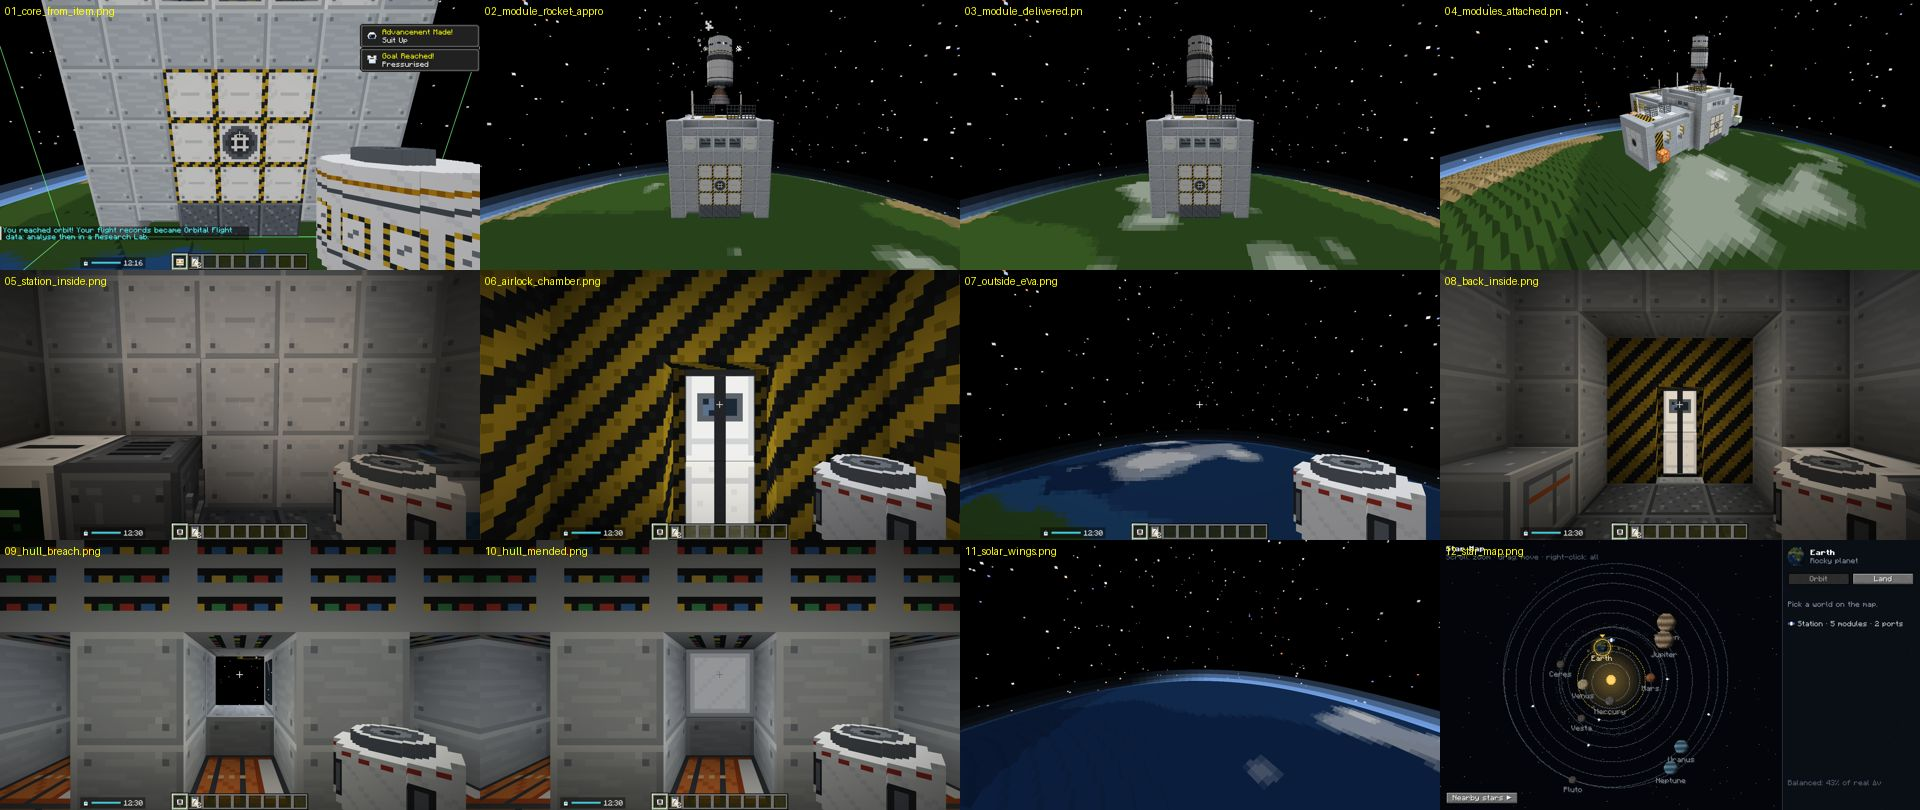
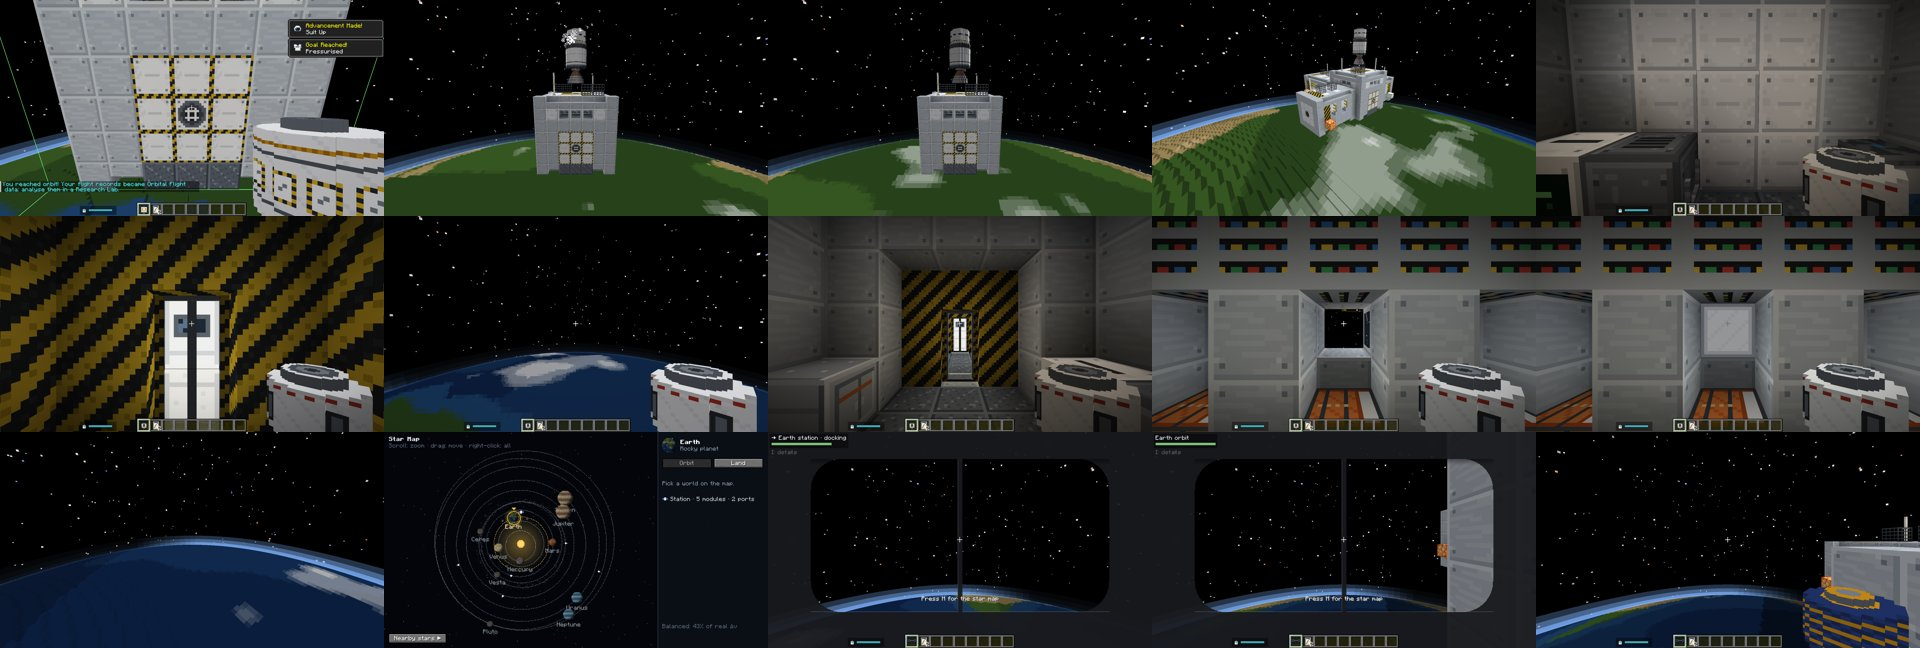
QA: showcase shots that keep the player in place; crewed docking and its HUD line filmed in qa_station_play
Shot.stay leaves the player where they are (no teleport, no camera hold), so the
crewed approach is filmed from the seat. The station airlock test finds its doors
by their open property, so the sliding doors pass too.

diff --git a/src/testmod/java/com/pizzaparker07/spacebreaker/testmod/showcase/QaStationPlayScenario.java b/src/testmod/java/com/pizzaparker07/spacebreaker/testmod/showcase/QaStationPlayScenario.java
@@ -12,7 +12,6 @@ import com.pizzaparker07.spacebreaker.content.rocketry.station.StationModule;
 import com.pizzaparker07.spacebreaker.content.suit.OxygenTankItem;
 import com.pizzaparker07.spacebreaker.content.suit.SuitModule;
 import com.pizzaparker07.spacebreaker.content.suit.SuitTanks;
-import com.pizzaparker07.spacebreaker.content.suit.block.AirlockDoorBlock;
 import com.pizzaparker07.spacebreaker.content.suit.block.OxygenDistributorBlockEntity;
 import com.pizzaparker07.spacebreaker.testmod.showcase.ShowcaseDriver.Shot;
 import net.minecraft.client.CameraType;
@@ -180,7 +179,9 @@ final class QaStationPlayScenario implements ShowcaseScenario {
         }, null));
         s.add(new Shot("07_outside_eva", 6000, 0, 0, 0, 270F, 10F, false, fp, 160, p -> {
             BlockPos west = centre.relative(Direction.WEST, 3).above(2);
-            BlockPos outer = west.relative(Direction.WEST, 5).below();
+            BlockPos inner = west.relative(Direction.WEST, 1).below(), outer = west.relative(Direction.WEST, 5).below();
+            // a careless crew: the inner door asked open again, then the outer one; the interlock must keep one shut
+            click(p, inner);
             click(p, outer);
             at(p, west.getX() - 7.5, outer.getY(), west.getZ() + 0.5, 90F, 10F);
             p.getAbilities().flying = true;
@@ -190,6 +191,8 @@ final class QaStationPlayScenario implements ShowcaseScenario {
         s.add(new Shot("08_back_inside", 6000, 0, 0, 0, 90F, 0F, false, fp, 160, p -> {
             BlockPos west = centre.relative(Direction.WEST, 3).above(2);
             BlockPos inner = west.relative(Direction.WEST, 1).below(), outer = west.relative(Direction.WEST, 5).below();
+            log("tick " + p.server.getTickCount() + ", after the careless clicks: outer " + doorState(p, outer) + ", inner "
+                    + doorState(p, inner) + ", room " + room(p));
             at(p, west.getX() - 2.5, outer.getY(), west.getZ() + 0.5, 90F, 0F);
             click(p, outer);
             click(p, inner);
@@ -249,28 +252,28 @@ final class QaStationPlayScenario implements ShowcaseScenario {
             RocketryShowcaseClient.openMapWhenRiding = true;
         }, null));
         // 13: the docking approach from the seat (flight HUD)
-        s.add(new Shot("13_docking_hud", 6000, 0, 0, 0, 0F, 0F, false, fp, 80, p -> {
+        s.add(Shot.stay("13_docking_hud", 6000, false, fp, 20, p -> {
             RocketryShowcaseClient.openMapWhenRiding = false;
             p.closeContainer();
             reseat(p);
             var free = DockingPorts.get(orbit(p)).nearest(centre.getCenter(), q -> !q.pos().equals(port)).orElse(null);
             if (free != null && crewed != null) {
-                crewed.approachPort(free.pos(), free.facing(), 16);
-                log("crewed rocket approaching port " + free.pos() + " facing " + free.facing() + ", docking " + crewed.docking());
+                crewed.approachPort(free.pos(), free.facing(), 32); // a long approach, so the frame catches the docking line
+                log("tick " + p.server.getTickCount() + ": crewed rocket approaching port " + free.pos() + " facing " + free.facing() + ", docking " + crewed.docking());
             } else {
                 log("no free port for the crewed rocket");
             }
         }, null));
-        s.add(new Shot("14_docked", 6000, 0, 0, 0, 0F, 0F, false, fp, 400, QaStationPlayScenario::reseat, null));
-        s.add(new Shot("15_end", 6000, 0, 0, 0, 0F, 0F, false, fp, 20, p -> {
-            reseat(p);
+        s.add(Shot.stay("14_docked", 6000, false, fp, 400, p -> log("tick " + p.server.getTickCount() + ": crewed rocket docking "
+                + (crewed != null && crewed.docking()) + ", docked " + (crewed != null && crewed.docked())), null));
+        s.add(Shot.stay("15_end", 6000, false, fp, 20, p -> {
             var free = DockingPorts.get(orbit(p)).nearest(centre.getCenter(), q -> !q.pos().equals(port)).orElse(null);
             String where = crewed == null || free == null ? "" : String.format(java.util.Locale.ROOT,
                     " at %.1f %.1f %.1f, %.2f blocks from the dock point, still docking %s, player riding %s",
                     crewed.getX(), crewed.getY(), crewed.getZ(),
                     crewed.position().distanceTo(RocketEntity.dockPoint(free.pos(), free.facing(), crewed.getBbHeight(), crewed.getBbWidth())),
                     crewed.docking(), p.getVehicle() == crewed);
-            log("crewed rocket docked " + (crewed != null && crewed.docked()) + where);
+            log("tick " + p.server.getTickCount() + ": crewed rocket docked " + (crewed != null && crewed.docked()) + where);
             p.stopRiding();
         }, null));
         return s;
@@ -291,6 +294,7 @@ final class QaStationPlayScenario implements ShowcaseScenario {
 
     private static String doorState(ServerPlayer p, BlockPos pos) {
         var st = orbit(p).getBlockState(pos);
-        return st.getBlock() instanceof AirlockDoorBlock ? (st.getValue(AirlockDoorBlock.OPEN) ? "open" : "shut") : "no door";
+        return st.hasProperty(net.minecraft.world.level.block.state.properties.BlockStateProperties.OPEN)
+                ? (st.getValue(net.minecraft.world.level.block.state.properties.BlockStateProperties.OPEN) ? "open" : "shut") : "no door";
     }
 }

diff --git a/src/testmod/java/com/pizzaparker07/spacebreaker/testmod/showcase/ShowcaseDriver.java b/src/testmod/java/com/pizzaparker07/spacebreaker/testmod/showcase/ShowcaseDriver.java
@@ -63,6 +63,18 @@ public final class ShowcaseDriver {
      */
     record Shot(String name, long time, double x, double y, double z, float yaw, float pitch, boolean hideGui,
                 CameraType camera, int minTicks, Consumer<ServerPlayer> serverSetup, Runnable clientSetup) {
+        /**
+         * A shot that leaves the player where they are (no teleport, no camera hold): for sequences where the player
+         * rides something that moves, which a teleport would throw them out of.
+         */
+        static Shot stay(String name, long time, boolean hideGui, CameraType camera, int minTicks,
+                         Consumer<ServerPlayer> serverSetup, Runnable clientSetup) {
+            return new Shot(name, time, Double.NaN, Double.NaN, Double.NaN, 0F, 0F, hideGui, camera, minTicks, serverSetup, clientSetup);
+        }
+
+        boolean stays() {
+            return Double.isNaN(x);
+        }
     }
 
     private ShowcaseDriver() {
@@ -161,6 +173,12 @@ public final class ShowcaseDriver {
                 ServerLevel level = server.getLevel(dimension) != null ? server.getLevel(dimension) : server.overworld();
                 level.setDayTime(shot.time());
                 level.setWeatherParameters(12000, 0, false, false);
+                if (shot.stays()) {
+                    if (shot.serverSetup() != null) {
+                        shot.serverSetup().accept(player);
+                    }
+                    return;
+                }
                 player.getAbilities().flying = true;
                 player.onUpdateAbilities();
                 // hold the camera still until the terrain around it is loaded and drawn: without this the player
@@ -186,7 +204,7 @@ public final class ShowcaseDriver {
             return;
         }
         ticks++;
-        if (mc.player != null && !mc.player.isPassenger()) {
+        if (mc.player != null && !mc.player.isPassenger() && !shot.stays()) {
             // client side of the hold: no drift while the server's teleport and the chunks arrive
             mc.player.setDeltaMovement(net.minecraft.world.phys.Vec3.ZERO);
         }

diff --git a/src/testmod/java/com/pizzaparker07/spacebreaker/testmod/qa/StationAuditTests.java b/src/testmod/java/com/pizzaparker07/spacebreaker/testmod/qa/StationAuditTests.java
@@ -132,8 +132,9 @@ public final class StationAuditTests {
         BlockPos east = centre.relative(Direction.WEST, 3).above(2);
         h.assertTrue(StationModule.AIRLOCK.attach(level, east, "qa"), "the airlock attaches at a side");
         BlockPos inner = east.relative(Direction.WEST, 1).below(), outer = east.relative(Direction.WEST, 5).below();
-        h.assertTrue(level.getBlockState(inner).getBlock() instanceof com.pizzaparker07.spacebreaker.content.suit.block.AirlockDoorBlock
-                && level.getBlockState(outer).getBlock() instanceof com.pizzaparker07.spacebreaker.content.suit.block.AirlockDoorBlock, "two airlock doors");
+        var open = net.minecraft.world.level.block.state.properties.BlockStateProperties.OPEN;
+        h.assertTrue(level.getBlockState(inner).hasProperty(open) && level.getBlockState(outer).hasProperty(open),
+                "two airlock doors: " + level.getBlockState(inner) + ", " + level.getBlockState(outer));
         var player = h.makeMockServerPlayerInLevel();
         BlockPos dist = centre.relative(forward.getOpposite(), 2).relative(forward.getClockWise(), -2).above();
         List<String> out = new ArrayList<>();

diff --git a/docs/QA.md b/docs/QA.md
@@ -333,10 +333,20 @@ code; log lines "[showcase] qa_station: …"; contact sheet `docs/screenshots/qa
 - a hole in the quarters' wall (an LED panel removed) vents the station; put back, sealed again at 270 ✅ (09–10);
 - solar wings on the last mouth: the battery in the mouth holds 96,240 FE about 20 s later ✅ (11);
 - the star map's side panel lists "Station · 5 modules · 2 ports" for Earth ✅ (12);
-- the crewed docking approach could not be filmed: the showcase driver moves the player for every shot and the
-  rocket stayed at its start point. A GameTest with a player in the seat (`qa/CrewedDockingTests`) docks normally
-  (0.00 blocks to go after 700 ticks), so this is a limit of the scenario, not of the game; the docking HUD line is
-  still unchecked.
+- the crewed docking approach could not be filmed at first: the showcase driver moved the player for every shot and
+  the rocket stayed at its start point. A GameTest with a player in the seat (`qa/CrewedDockingTests`) docks normally
+  (0.00 blocks to go after 700 ticks).
+
+Re-run on 1.21.1 @ 6f693898 (rocketry 545c2d05 in): 01–12 as above (the station room is 299 blocks with the supply
+lockers). The driver now has `Shot.stay(...)`: the player stays where they are (no teleport, no camera hold), so
+13–15 are filmed from the seat:
+- 13: the approach starts at tick 2472, 32 blocks out; at tick 2494 the HUD's top line reads "→ Earth station ·
+  docking" ✅;
+- 14–15: docked by tick 2894, 0.00 blocks from the dock point, player still seated, the chat line "Docked: you can
+  step out into the station" ✅.
+- 07 now clicks the doors carelessly (inner, then outer). With the old doors both open and the station vents (tick
+  1464: outer open, inner open, room not sealed). The interlocked sliding doors (rocketry, QA-27) are not in 1.21.1
+  yet; this is checked again once they are.
 
 ## Sky visual regression (2026-11-07)
 
